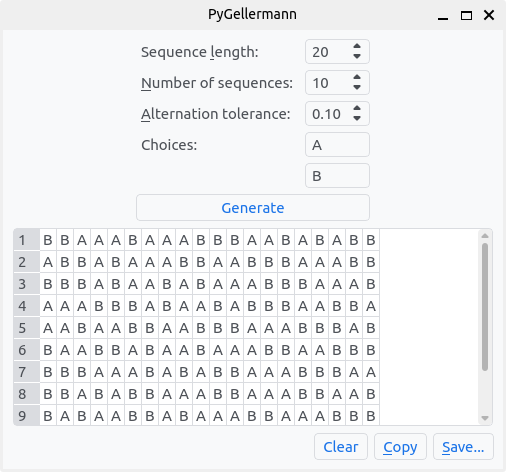
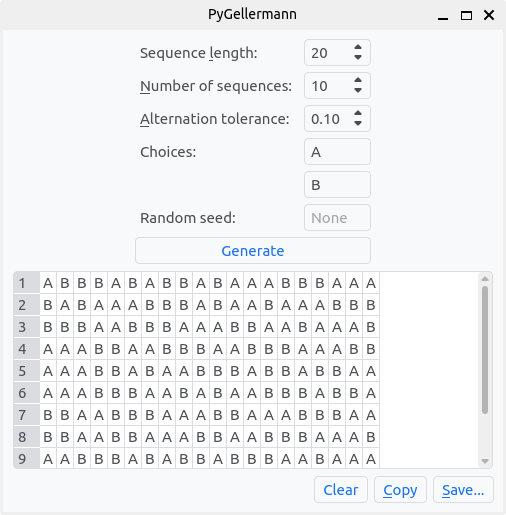
Add optional random seed to GUI

diff --git a/pygellermann/gui.py b/pygellermann/gui.py
@@ -61,6 +61,12 @@ class MainWindow(QtWidgets.QMainWindow):
         self._option2_lineedit = ShorterLineEdit()
         self._option2_lineedit.setText("B")
 
+        random_seed_validator = QtGui.QIntValidator()
+        random_seed_validator.setBottom(0)
+        self._random_seed_lineedit = ShorterLineEdit()
+        self._random_seed_lineedit.setValidator(random_seed_validator)
+        self._random_seed_lineedit.setPlaceholderText("None")
+
         generate_button = QtWidgets.QPushButton("Generate")
         generate_button.clicked.connect(self._generate)
 
@@ -88,6 +94,7 @@ class MainWindow(QtWidgets.QMainWindow):
         input_layout.addRow("&Alternation tolerance:", self._alternation_tolerance_spinbox)
         input_layout.addRow("Choices:", self._option1_lineedit)
         input_layout.addRow("", self._option2_lineedit)
+        input_layout.addRow("Random seed:", self._random_seed_lineedit)
         input_layout.addRow(generate_button)
 
         centered_input_layout = QtWidgets.QHBoxLayout()
@@ -146,6 +153,14 @@ class MainWindow(QtWidgets.QMainWindow):
             QtWidgets.QMessageBox.critical(self, "Error", "PyGellermann cannot yet generate odd length Gellermann series.")
             return
 
+        try:
+            random_seed_text = self._random_seed_lineedit.text()
+            random_seed = int(random_seed_text) if random_seed_text else None
+        except ValueError:
+            QtWidgets.QMessageBox.critical(self, "Error", "Invalid random seed.")
+            return
+        rng = np.random.default_rng(random_seed)
+
         progress_dialog = QtWidgets.QProgressDialog("Generating series...", "Cancel", 0, m, self)
         progress_dialog.setWindowTitle("PyGellermann")
         progress_dialog.setMinimumDuration(500)
@@ -156,7 +171,6 @@ class MainWindow(QtWidgets.QMainWindow):
 
         self._series = []
         try:
-            rng = np.random.default_rng()  # TODO: Allow user to specify seed
             while len(self._series) < m:
                 s = next(gellermann.generate_gellermann_series(n, 1, alternation_tolerance=alternation_tolerance,
                                                                choices=choices, rng=rng, max_iterations=1000), None)
@@ -171,8 +185,8 @@ class MainWindow(QtWidgets.QMainWindow):
                 QtWidgets.QApplication.processEvents()
         except Exception as e:
             QtWidgets.QMessageBox.critical(self, "Error", f"An unexpected error occurred: {e}")
+            progress_dialog.cancel()
             progress_dialog.close()
-            return
 
         if progress_dialog.wasCanceled():
             self._series = []

diff --git a/README.md b/README.md
@@ -24,6 +24,7 @@ Four parameters can be set to customize the generated Gellermann series:
 - *Number of sequences*: The number of sequences to generate.
 - *Alternation tolerance*: How close to 50% chance level a sequence needs to be when compared to single or double alternation.
 - *Choices*: The two possible choices for each stimulus in the sequences.
+- *Random seed*: The seed for the random number generator, allowing to deterministically generate the same sequences.
 
 The *Generate* button will then generate the requested number of sequences, and display them in the table underneath.
 
